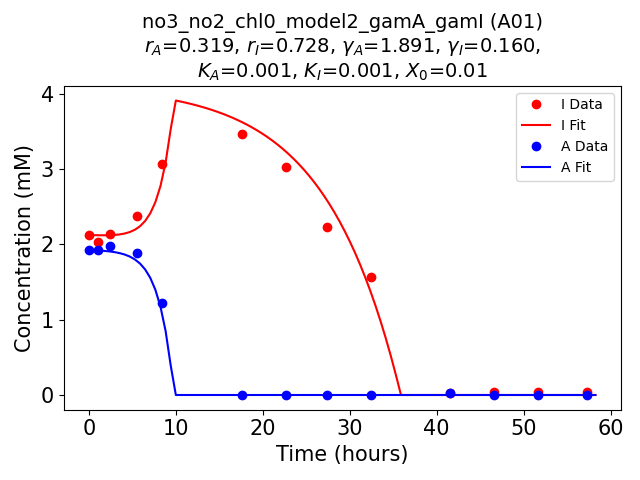
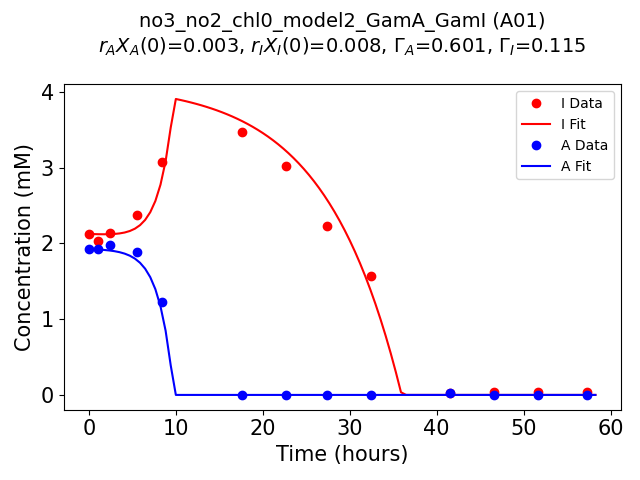
model2_20250413

diff --git a/model_fit_chl1_chl0_20250319.py b/model_fit_chl1_chl0_20250319.py
@@ -10,7 +10,7 @@ import json
 import pickle
 import copy
 import lmfit
-from model2 import *   ###############################################################################################################
+from model2_20250413 import *   ###############################################################################################################
 
 # Load your data
 no3_chl0 = pd.read_csv('concentrations/no3_chl0_evap.csv', index_col=0)
@@ -20,7 +20,7 @@ no2_chl1 = pd.read_csv('concentrations/no2_chl1_evap.csv', index_col=0)
 # no2 = no2.iloc[:, :10]
 # no3 = no3.iloc[:, :10]
 
-for row in no3_chl0.index[15:]:
+for row in no3_chl0.index[0:1]:
     # Fit CHL+ data
     X0 = 0.01
     A_chl1 = no3_chl1.loc[row]
@@ -31,13 +31,13 @@ for row in no3_chl0.index[15:]:
 
     # Create lmfit Parameters with optional constraints
     params_chl1 = Parameters()
-    params_chl1.add('K_A',  value=0.001, min=1e-3, max=1, vary=False)
-    params_chl1.add('K_I',  value=0.001, min=1e-3, max=1, vary=False)
-    params_chl1.add('r_A',  value=0.5, min=1e-3, max=1e3)
-    params_chl1.add('r_I',  value=0.5, min=1e-3, max=1e3)
-    params_chl1.add('gamA', value=0.0, min=1e-3, max=1e3, vary=False)
-    params_chl1.add('gamI', value=0.0, min=1e-3, max=1e3, vary=False)
-    #params.add('gamI', expr='r_A * gamA / r_I')  # Constraint: r_A * gamA = r_I * gamI
+    params_chl1.add('K_A',  value=1e-3, min=1e-3, max=1, vary=False)
+    params_chl1.add('K_I',  value=1e-3, min=1e-3, max=1, vary=False)
+    params_chl1.add('r_A',  value=0.5, min=0, max=10)
+    params_chl1.add('r_I',  value=0.5, min=0, max=10)
+    params_chl1.add('GamA', value=0.0, min=0, max=1e3, vary=False)
+    params_chl1.add('GamI', value=0.0, min=0, max=1e3, vary=False)
+    #params.add('GamI', expr='r_A * GamA / r_I')  # Constraint: r_A * GamA = r_I * GamI
     fit_str_chl1 = f'model2_rA_rI'  ###############################################################################################################
 
     fitter = Minimizer(residual, params_chl1, fcn_args=(initial_chl1, t_eval_chl1, A_chl1, I_chl1))
@@ -58,7 +58,7 @@ for row in no3_chl0.index[15:]:
         pickle.dump(result_chl1, f)
 
     params_chl1 = result_chl1.params
-    print('=====Best-fit values=====')
+    print(f'=====Best-fit values for CHL+ {row}=====')
     for param_name, param in result_chl1.params.items():
         print(f'{param_name}: {param.value} ± {param.stderr}')
     
@@ -74,18 +74,18 @@ for row in no3_chl0.index[15:]:
     K_I = params_chl1['K_I'].value
     r_A = params_chl1['r_A'].value
     r_I = params_chl1['r_I'].value
-    gamA = params_chl1['gamA'].value
-    gamI = params_chl1['gamI'].value
+    GamA = params_chl1['GamA'].value
+    GamI = params_chl1['GamI'].value
 
     params_chl0 = Parameters()
-    params_chl0.add('K_A',  value=K_A, min=1e-4, max=10, vary=False)
-    params_chl0.add('K_I',  value=K_I, min=1e-4, max=10, vary=False)
-    params_chl0.add('r_A',  value=r_A, min=1e-4, max=1e3, vary=False)
-    params_chl0.add('r_I',  value=r_I, min=1e-4, max=1e3, vary=False)
-    params_chl0.add('gamA', value=1.0, min=1e-3, max=100)
-    params_chl0.add('gamI', value=1.0, min=1e-3, max=100)
-    #params.add('gamI', expr='r_A * gamA / r_I')  # Constraint: r_A * gamA = r_I * gamI
-    fit_str_chl0 = f'model2_gamA_gamI'  ###############################################################################################################
+    params_chl0.add('K_A',  value=K_A, min=1e-3, max=10, vary=False)
+    params_chl0.add('K_I',  value=K_I, min=1e-3, max=10, vary=False)
+    params_chl0.add('r_A',  value=r_A, min=1e-3, max=10, vary=False)
+    params_chl0.add('r_I',  value=r_I, min=1e-3, max=10, vary=False)
+    params_chl0.add('GamA', value=1.0, min=0, max=5)
+    params_chl0.add('GamI', value=1.0, min=0, max=5)
+    #params.add('GamI', expr='r_A * GamA / r_I')  # Constraint: r_A * GamA = r_I * GamI
+    fit_str_chl0 = f'model2_GamA_GamI'  ###############################################################################################################
 
     fitter = Minimizer(residual, params_chl0, fcn_args=(initial_chl0, t_eval_chl0, A_chl0, I_chl0))
     print(f'=====Brute fitting for CHL- row {row} started=====')
@@ -118,15 +118,15 @@ for row in no3_chl0.index[15:]:
     K_I_chl0 = result_chl0.params['K_I'].value
     r_A_chl0 = result_chl0.params['r_A'].value
     r_I_chl0 = result_chl0.params['r_I'].value
-    gamA_chl0 = result_chl0.params['gamA'].value
-    gamI_chl0 = result_chl0.params['gamI'].value
+    GamA_chl0 = result_chl0.params['GamA'].value
+    GamI_chl0 = result_chl0.params['GamI'].value
 
     K_A_chl1 = result_chl1.params['K_A'].value
     K_I_chl1 = result_chl1.params['K_I'].value
     r_A_chl1 = result_chl1.params['r_A'].value
     r_I_chl1 = result_chl1.params['r_I'].value
-    gamA_chl1 = result_chl1.params['gamA'].value
-    gamI_chl1 = result_chl1.params['gamI'].value
+    GamA_chl1 = result_chl1.params['GamA'].value
+    GamI_chl1 = result_chl1.params['GamI'].value
 
     # CHL- plot
     plt.figure()
@@ -138,9 +138,8 @@ for row in no3_chl0.index[15:]:
     plt.ylabel('Concentration (mM)', fontsize=15)
     plt.tick_params(axis='both', which='major', labelsize=15)
     plt.title(f'{data_str_chl0}_{fit_str_chl0} ({row})\n'
-            f'$r_A$={r_A_chl0:.3f}, $r_I$={r_I_chl0:.3f}, $\gamma_A$={gamA_chl0:.3f}, $\gamma_I$={gamI_chl0:.3f},\n'
-            f'$K_A$={K_A_chl0:.3f}, $K_I$={K_I_chl0:.3f}, $X_0$={X0:.2f}',
-            fontsize=14)
+            f'$r_A X_A(0)$={r_A_chl0 * X0:.3f}, $r_I X_I(0)$={r_I_chl0 * X0:.3f}, $\Gamma_A$={GamA_chl0:.3f}, $\Gamma_I$={GamI_chl0:.3f}\n',
+            fontsize=15)
     plt.legend()
     plt.tight_layout()
     plt.savefig(f'plots/model_fit_{data_str_chl0}_{fit_str_chl0}_{row}.png')
@@ -156,9 +155,8 @@ for row in no3_chl0.index[15:]:
     plt.ylabel('Concentration (mM)', fontsize=15)
     plt.tick_params(axis='both', which='major', labelsize=15)
     plt.title(f'{data_str_chl1}_{fit_str_chl1} ({row})\n'
-            f'$r_A$={r_A_chl1:.3f}, $r_I$={r_I_chl1:.3f}, $\gamma_A$=0.0, $\gamma_I$=0.0\n'
-            f'$K_A$={K_A_chl1:.3f}, $K_I$={K_I_chl1:.3f}, $X_0$={X0:.2f}',
-            fontsize=14)
+            f'$r_A X_A(0)$={r_A_chl0 * X0:.3f}, $r_I X_I(0)$={r_I_chl0 * X0:.3f}, $\Gamma_A$={GamA_chl0:.1f}, $\Gamma_I$={GamI_chl0:.1f}\n',
+            fontsize=15)
     plt.legend()
     plt.tight_layout()
     plt.savefig(f'plots/model_fit_{data_str_chl1}_{fit_str_chl1}_{row}.png')

diff --git a/_functions/model2_20250320.py b/_functions/model2_20250320.py
@@ -1,0 +1,78 @@
+import pandas as pd
+import numpy as np
+from scipy.integrate import solve_ivp
+import matplotlib.pyplot as plt
+from lmfit import Minimizer, Parameters
+from scipy.interpolate import interp1d
+import json
+import pickle
+import copy
+   
+def odes(t, y, params):
+    A, I, X_A, X_I = y
+    K_A = params['K_A'].value
+    K_I = params['K_I'].value
+    r_A = params['r_A'].value
+    r_I = params['r_I'].value
+    gamA = params['gamA'].value
+    gamI = params['gamI'].value
+    dA_dt = - A/(K_A + A) * r_A * X_A
+    dI_dt = -dA_dt - I/(K_I + I) * r_I * X_I
+    dX_A_dt = A/(K_A + A) * r_A * gamA * X_A
+    dX_I_dt = I/(K_I + I) * r_I * gamI * X_I
+    return [dA_dt, dI_dt, dX_A_dt, dX_I_dt]
+
+def simulate(params, initial, t_eval):
+    sol = solve_ivp(odes, (t_eval[0], t_eval[-1]), initial, t_eval=t_eval,
+                    args=(params,),
+                    method='BDF', 
+                    rtol=1e-6)      # methods: 'RK45', 'RK23', 'Radau', 'BDF', 'LSODA', 'DOP853'
+    #print(sol.message)
+    return sol.y[0], sol.y[1]  # Returns A(t) and I(t)
+
+def residual(params, initial, t_eval, A_data, I_data):
+    """
+    Returns residuals (Not squared) for A(t) and I(t).
+    lmfit expects an array of residuals for least-squares fitting.
+    """
+    # Simulate
+    A_model, I_model = simulate(params, initial, t_eval)
+
+    # Interpolate model output at the measurement times
+    A_interp = interp1d(t_eval, A_model, kind='linear', fill_value='extrapolate')
+    I_interp = interp1d(t_eval, I_model, kind='linear', fill_value='extrapolate')
+
+    # Compute residuals: difference between model and data
+    delta_A = A_interp(A_data.index.astype(float)) - A_data
+    delta_I = I_interp(I_data.index.astype(float)) - I_data
+
+    # Return a 1D array of residuals
+    return np.concatenate((delta_A.values, delta_I.values))
+
+def residual_chl01(params, initial, t_eval_chl0, t_eval_chl1, A_chl0, I_chl0, A_chl1, I_chl1):
+    
+    params_chl1 = params.copy()
+    params_chl1['gamA'].value = 0.0
+    params_chl1['gamI'].value = 0.0
+
+    # Simulate
+    A_model_chl0, I_model_chl0 = simulate(params, initial[0:4], t_eval_chl0)
+    A_model_chl1, I_model_chl1 = simulate(params_chl1, initial[4:8], t_eval_chl1)
+
+    # Interpolate model output at the measurement times
+    A_interp_chl0 = interp1d(t_eval_chl0, A_model_chl0, kind='linear', fill_value='extrapolate')
+    I_interp_chl0 = interp1d(t_eval_chl0, I_model_chl0, kind='linear', fill_value='extrapolate')
+    
+    A_interp_chl1 = interp1d(t_eval_chl1, A_model_chl1, kind='linear', fill_value='extrapolate')
+    I_interp_chl1 = interp1d(t_eval_chl1, I_model_chl1, kind='linear', fill_value='extrapolate')
+
+    # Compute residuals: difference between model and data
+    delta_A_chl0 = A_interp_chl0(A_chl0.index.astype(float)) - A_chl0
+    delta_I_chl0 = I_interp_chl0(I_chl0.index.astype(float)) - I_chl0
+    
+    delta_A_chl1 = A_interp_chl1(A_chl1.index.astype(float)) - A_chl1
+    delta_I_chl1 = I_interp_chl1(I_chl1.index.astype(float)) - I_chl1
+
+    # Return a 1D array of residual
+    return np.concatenate((delta_A_chl0.values, delta_I_chl0.values, delta_A_chl1.values, delta_I_chl1.values))
+

diff --git a/_functions/model2_20250413.py b/_functions/model2_20250413.py
@@ -1,4 +1,3 @@
-# Last Modified on 2025-03-20 by Ik
 import pandas as pd
 import numpy as np
 from scipy.integrate import solve_ivp
@@ -15,12 +14,12 @@ def odes(t, y, params):
     K_I = params['K_I'].value
     r_A = params['r_A'].value
     r_I = params['r_I'].value
-    gamA = params['gamA'].value
-    gamI = params['gamI'].value
+    GamA = params['GamA'].value
+    GamI = params['GamI'].value
     dA_dt = - A/(K_A + A) * r_A * X_A
     dI_dt = -dA_dt - I/(K_I + I) * r_I * X_I
-    dX_A_dt = A/(K_A + A) * r_A * gamA * X_A
-    dX_I_dt = I/(K_I + I) * r_I * gamI * X_I
+    dX_A_dt = A/(K_A + A) * GamA * X_A
+    dX_I_dt = I/(K_I + I) * GamI * X_I
     return [dA_dt, dI_dt, dX_A_dt, dX_I_dt]
 
 def simulate(params, initial, t_eval):
@@ -53,8 +52,8 @@ def residual(params, initial, t_eval, A_data, I_data):
 def residual_chl01(params, initial, t_eval_chl0, t_eval_chl1, A_chl0, I_chl0, A_chl1, I_chl1):
     
     params_chl1 = params.copy()
-    params_chl1['gamA'].value = 0.0
-    params_chl1['gamI'].value = 0.0
+    params_chl1['GamA'].value = 0.0
+    params_chl1['GamI'].value = 0.0
 
     # Simulate
     A_model_chl0, I_model_chl0 = simulate(params, initial[0:4], t_eval_chl0)

diff --git a/plot_fitting_parameters.py b/plot_fitting_parameters.py
@@ -29,6 +29,7 @@ for row in all_rows:
         data_dict['gamI'].append(data.params['gamI'].value)
 
 params = pd.DataFrame(data_dict, index=all_rows)
+params.to_csv("fitting_results/parameters.csv")
 
 # Load metadata
 metadata = pd.read_csv("concentrations/samples_metadata.csv", index_col=0)

diff --git a/_functions/model1_20250320.py b/_functions/model1_20250320.py
@@ -1,4 +1,3 @@
-# Last Modified on 2025-03-20 by Ik
 import pandas as pd
 import numpy as np
 from scipy.integrate import solve_ivp
